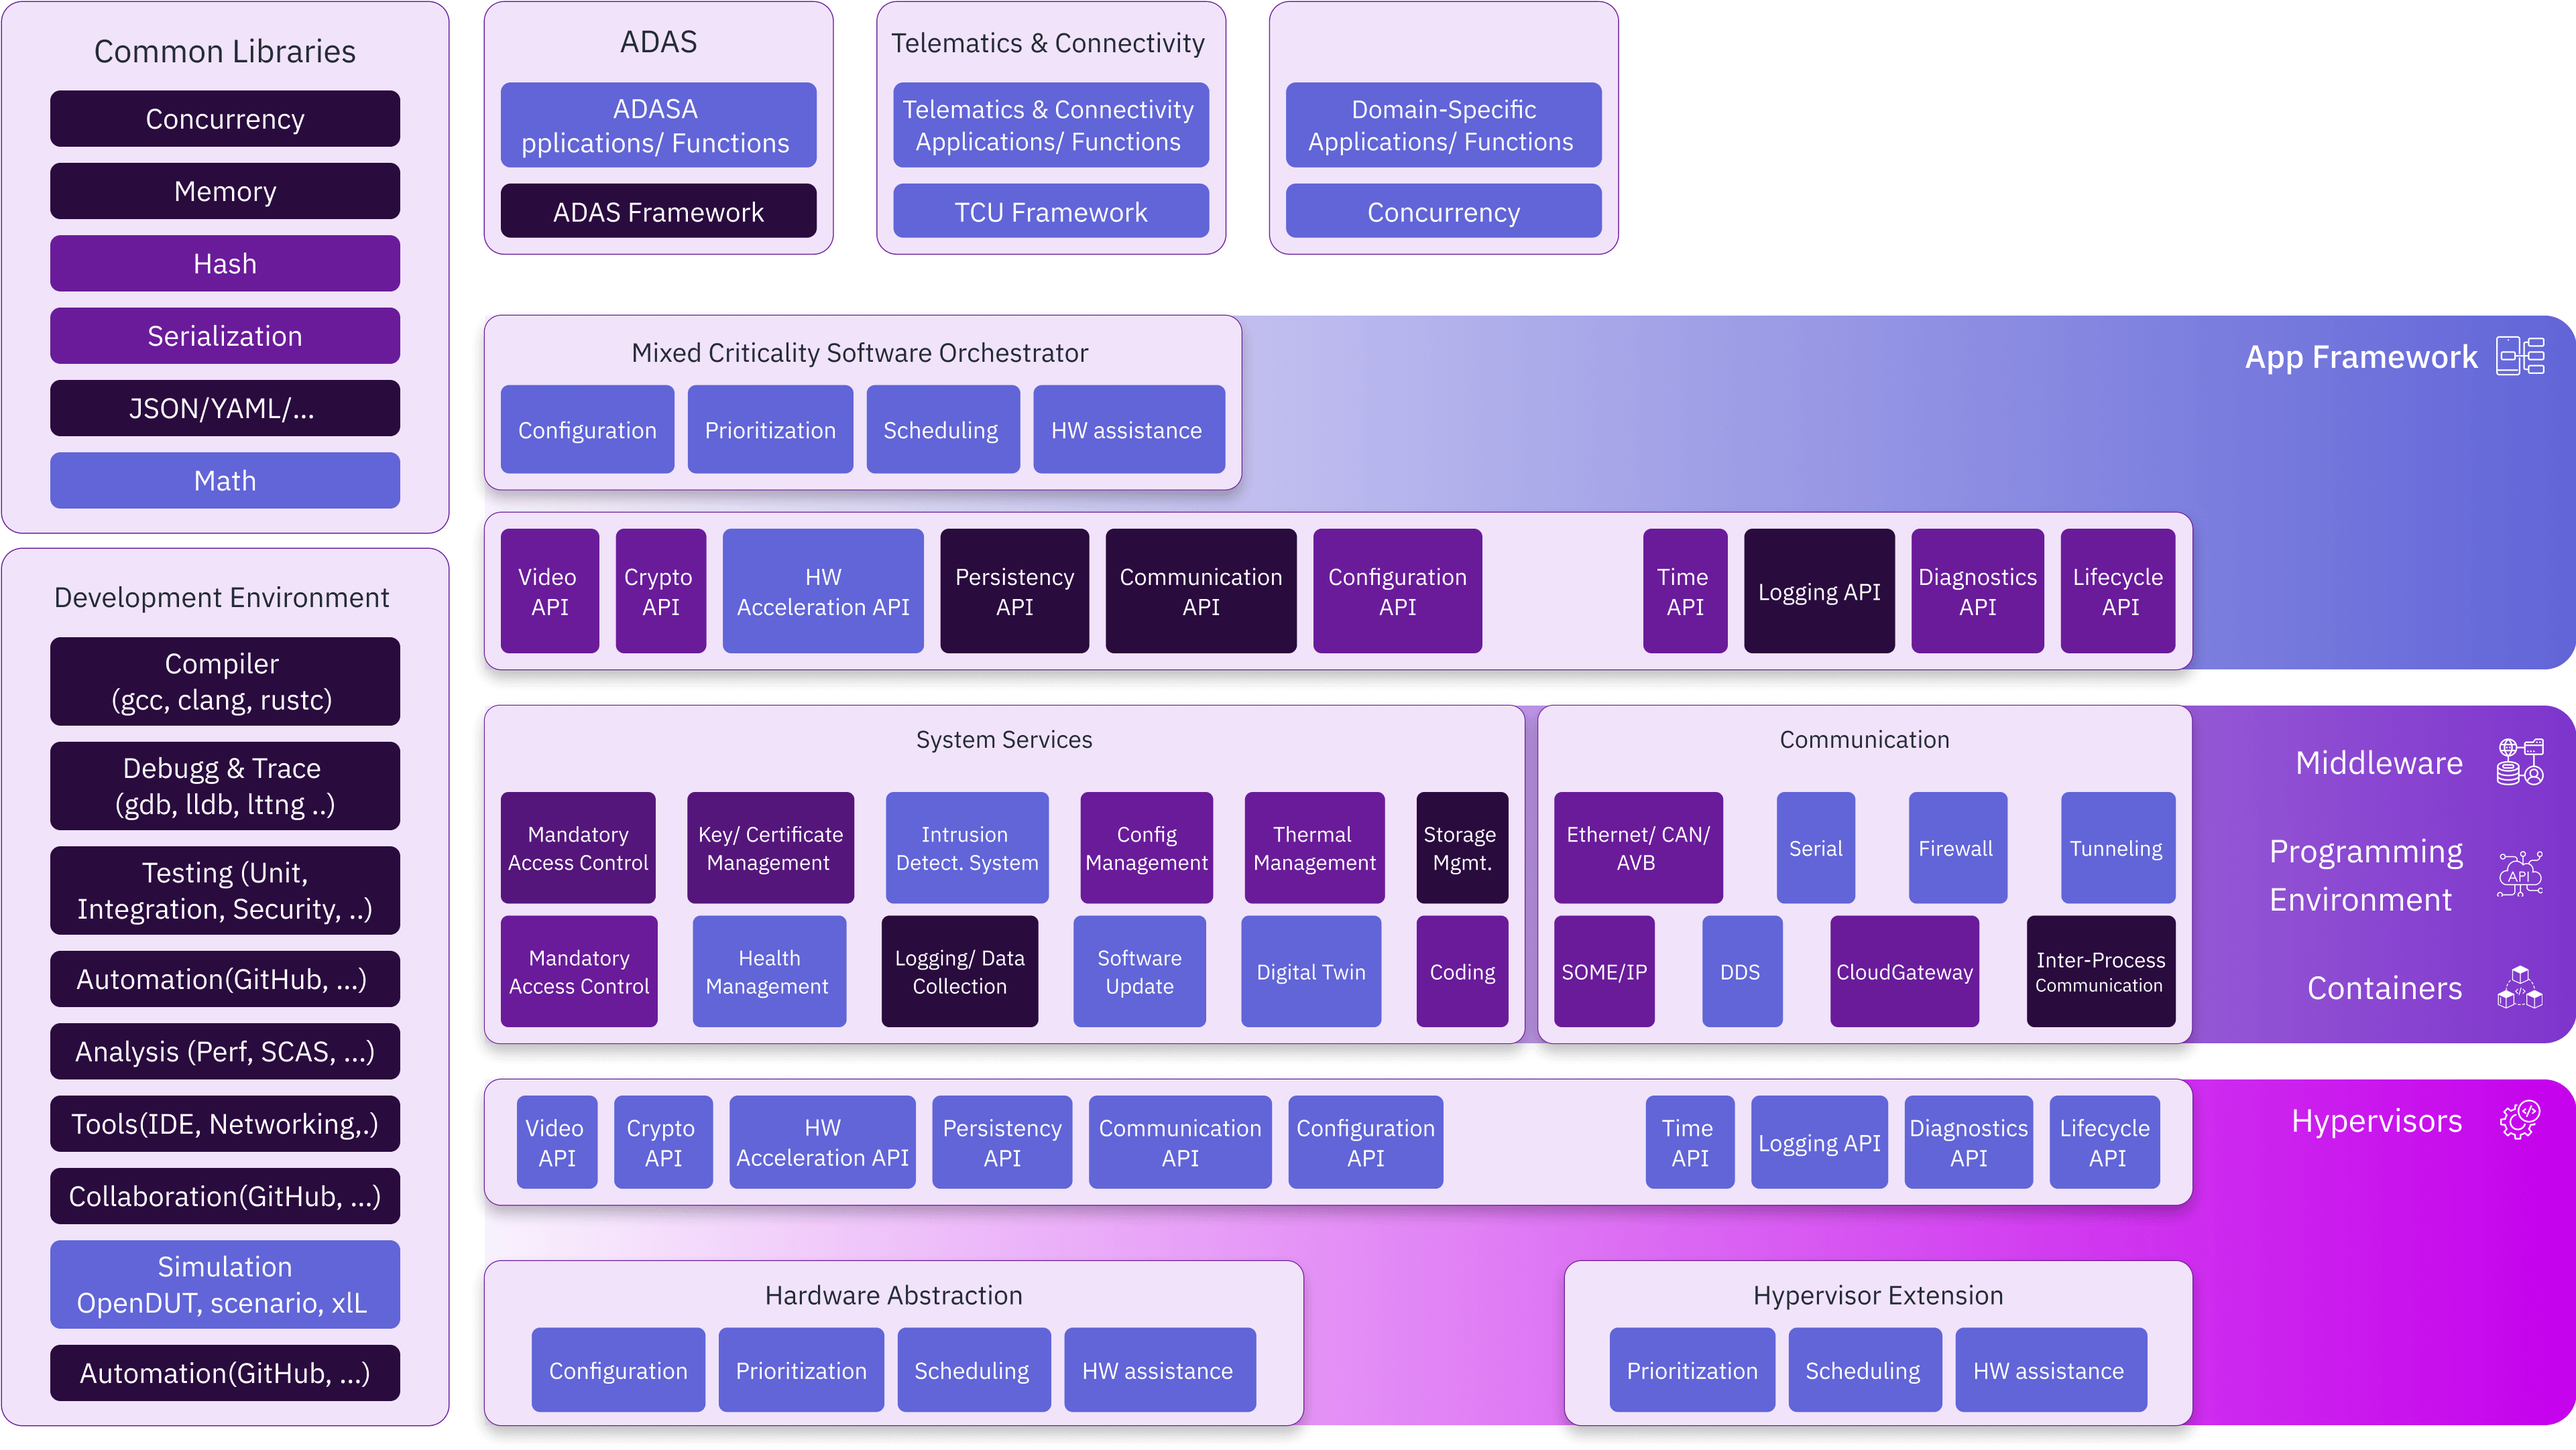
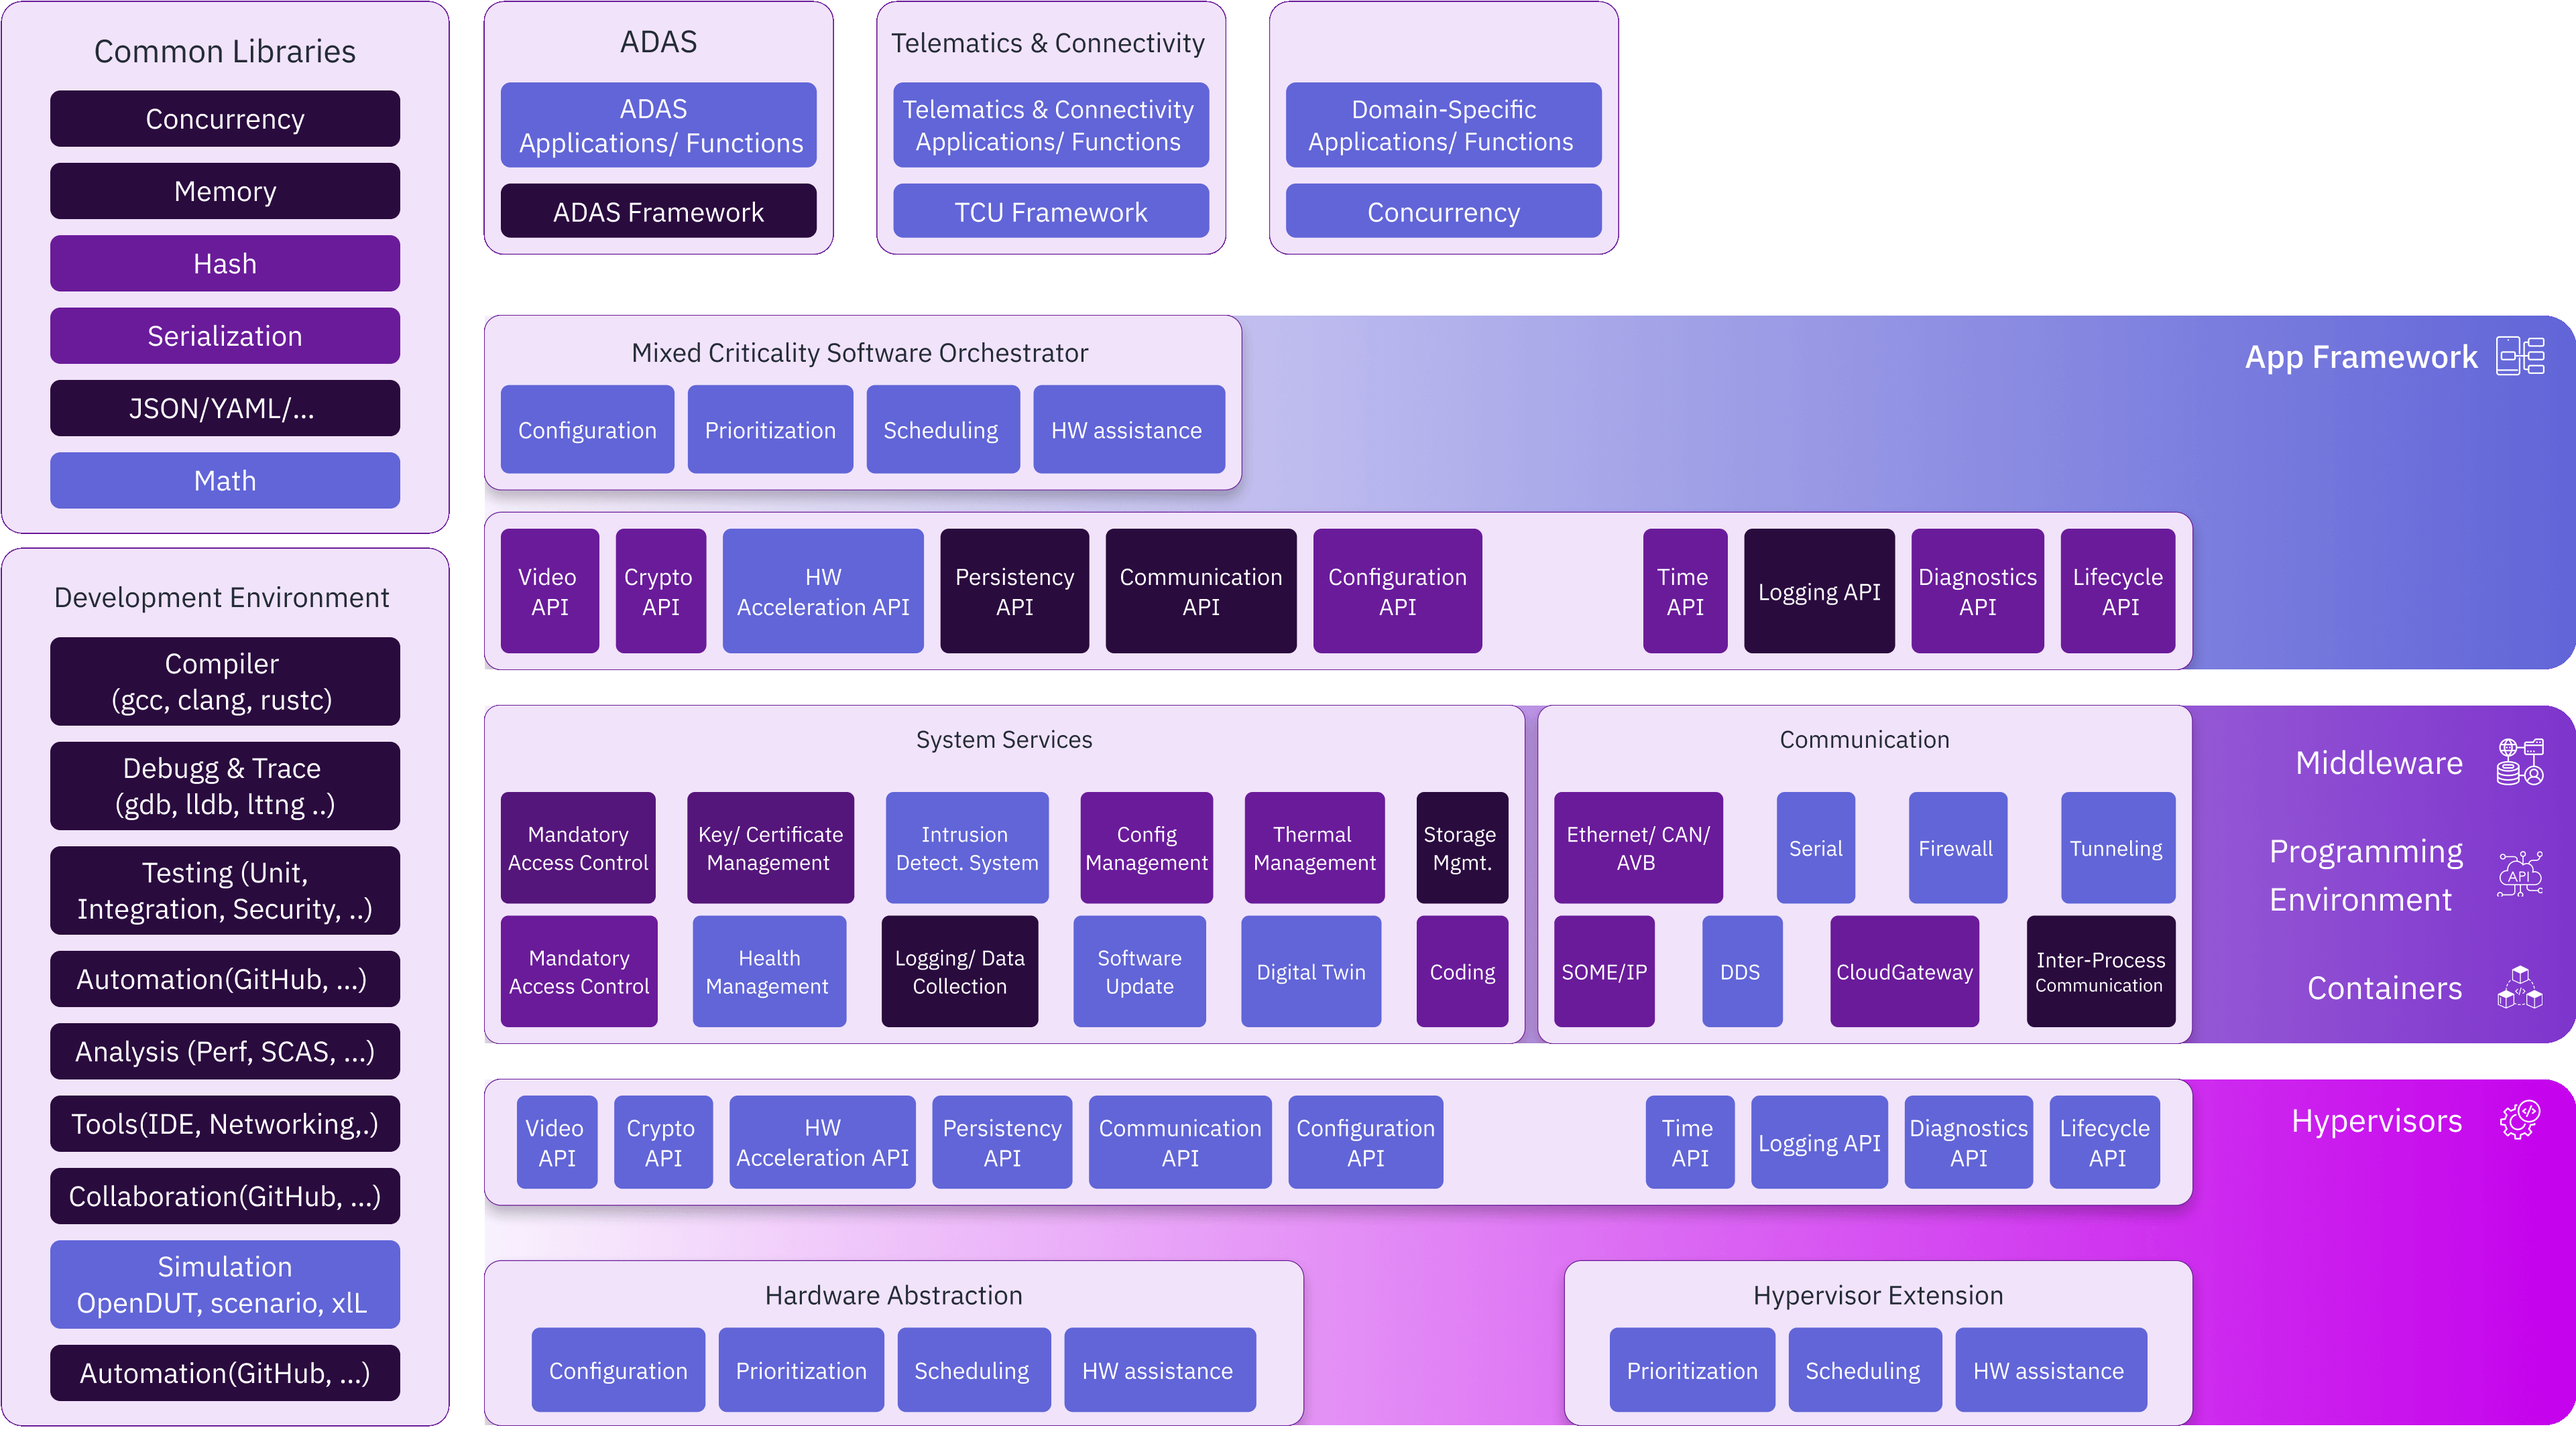
Corrected Typos and added description on Docs page

diff --git a/static/docs.html b/static/docs.html
@@ -159,7 +159,8 @@
           <div
             class="pages-title mb-4 d-flex flex-wrap align-items-center justify-content-between"
           >
-            <h2 class="h2 fw-semibold">S-Core Project Roadmap</h2>
+            <h2 class="h2 fw-semibold">Eclipse S-Core Building Blocks</h2>
+
             <div class="roadmap-modules d-flex flex-wrap gap-3">
               <div class="roadmap-module d-flex align-items-center gap-2">
                 <span class="color v-0-5"></span>
@@ -172,8 +173,13 @@
               </div>
             </div>
           </div>
+          
           <div class="roadmap-content">
             <div class="roadmap-container mt-4 d-flex flex-column gap-4">
+                          <p class="main-desc">
+              This section provides a schematic overview of the technical building blocks that form the foundation of our platform. 
+              Here, you’ll find a clear differentiation between S-CORE modules available in version 0.5 and those planned for version 1.0. <br/>
+            </p>
               <div class="zoom-image-wrapper">
                 <div class="panzoom-container">
                   <img
@@ -195,6 +201,10 @@
           </div>
           <div class="roadmap-content">
             <div class="roadmap-container mt-4 d-flex flex-column gap-4">
+              <p class="main-desc">
+              Get athe development and release timeline of Eclipse S-CORE. It shows the key phases that shape the platform’s evolution—starting from early development to achieving maturity and stability. 
+              Gain an understanding of how each phase contributes to delivering a scalable and reliable platform.
+            </p>
               <div class="zoom-image-wrapper">
                 <div class="panzoom-container">
                   <img

diff --git a/static/reference-implementation.html b/static/reference-implementation.html
@@ -274,7 +274,7 @@
                    Contributions to the S-CORE project must therefore follow the technical direction of the project and the S-CORE architecture. 
                    For an introduction on how to contribute, please check out our 
                   <a  href="https://eclipse-score.github.io/score/main/contribute/contribution_request/index.html#doc__contr_guideline" class="link" target="_blank"
-                  >Contribution Guideline (doc__contr_guideline).        
+                  >Contribution Guideline.        
                   </a> <br><br>
                 </p>
                 

diff --git a/static/index.html b/static/index.html
@@ -270,7 +270,7 @@
           <section class="esc-section esc-nutshell-section">
             <div class="container">
               <div class="esc-header esc-header-nutshell mb-5">
-                <h2 class="h2">S-COORE In A Nutshell</h2>
+                <h2 class="h2">S-CORE In A Nutshell</h2>
               </div>
               <div class="esc-content">
                 <h3 class="h5 subtitle mb-3">Together..</h3>
